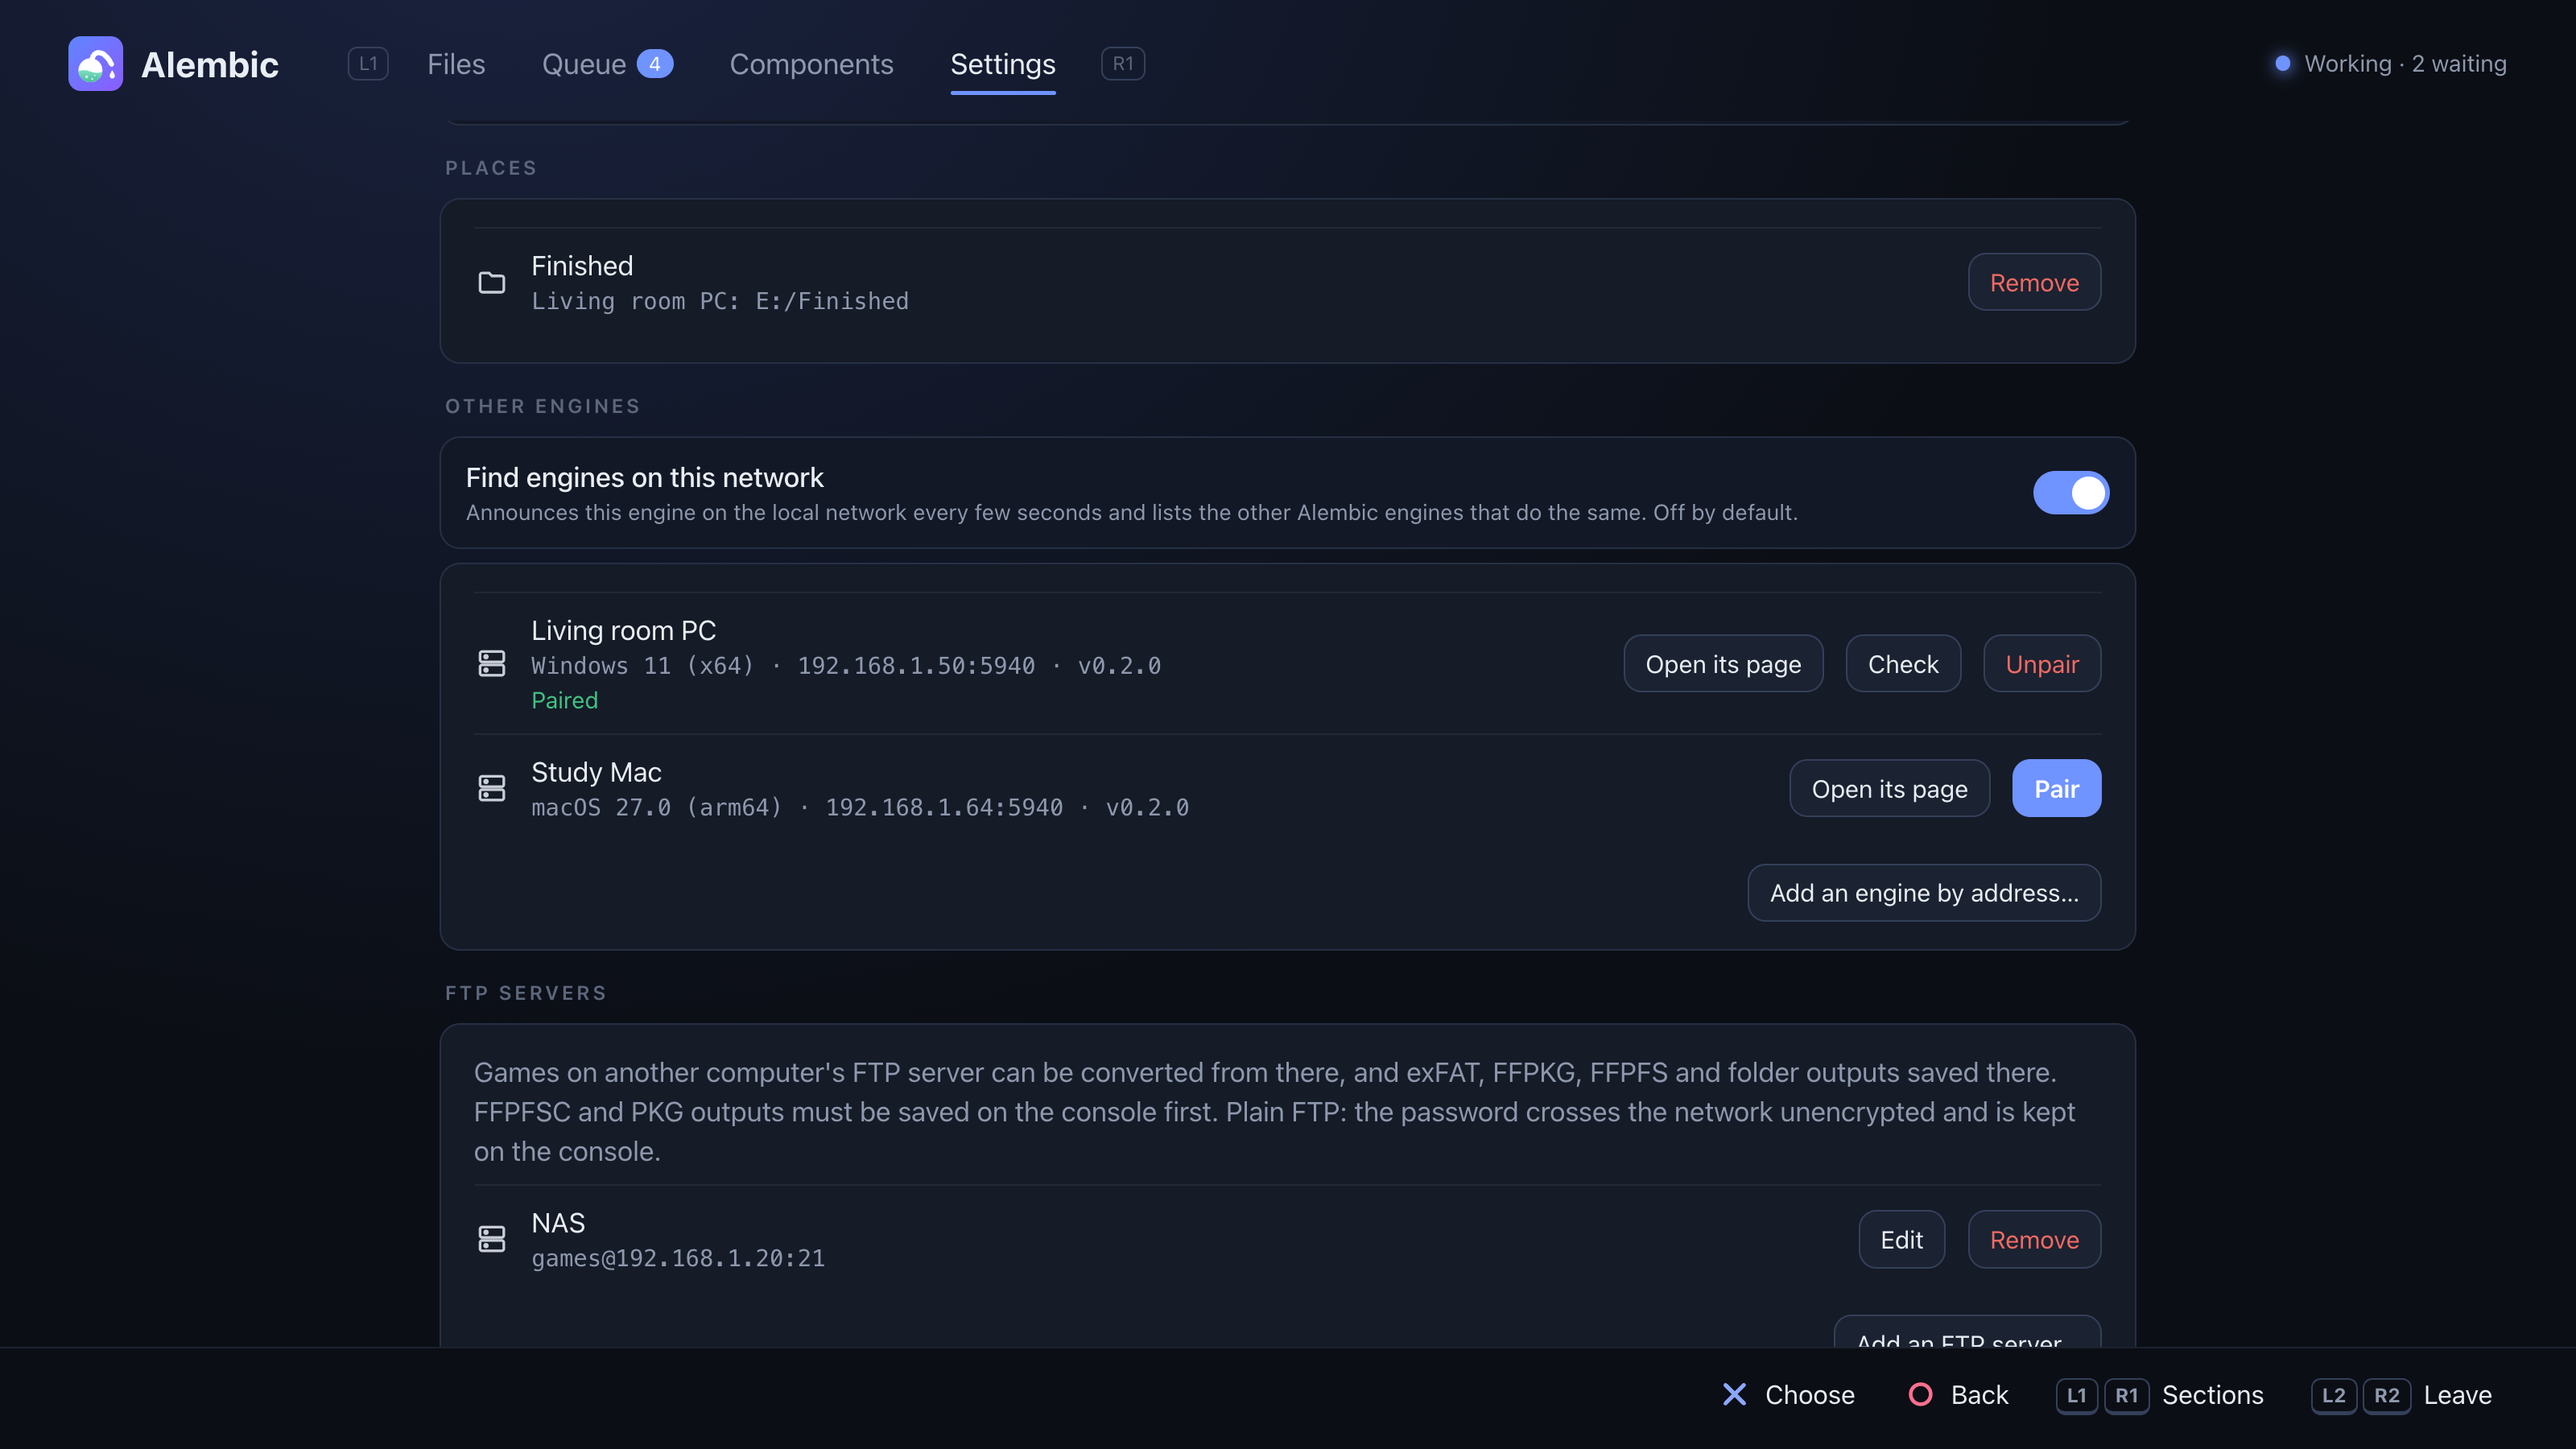
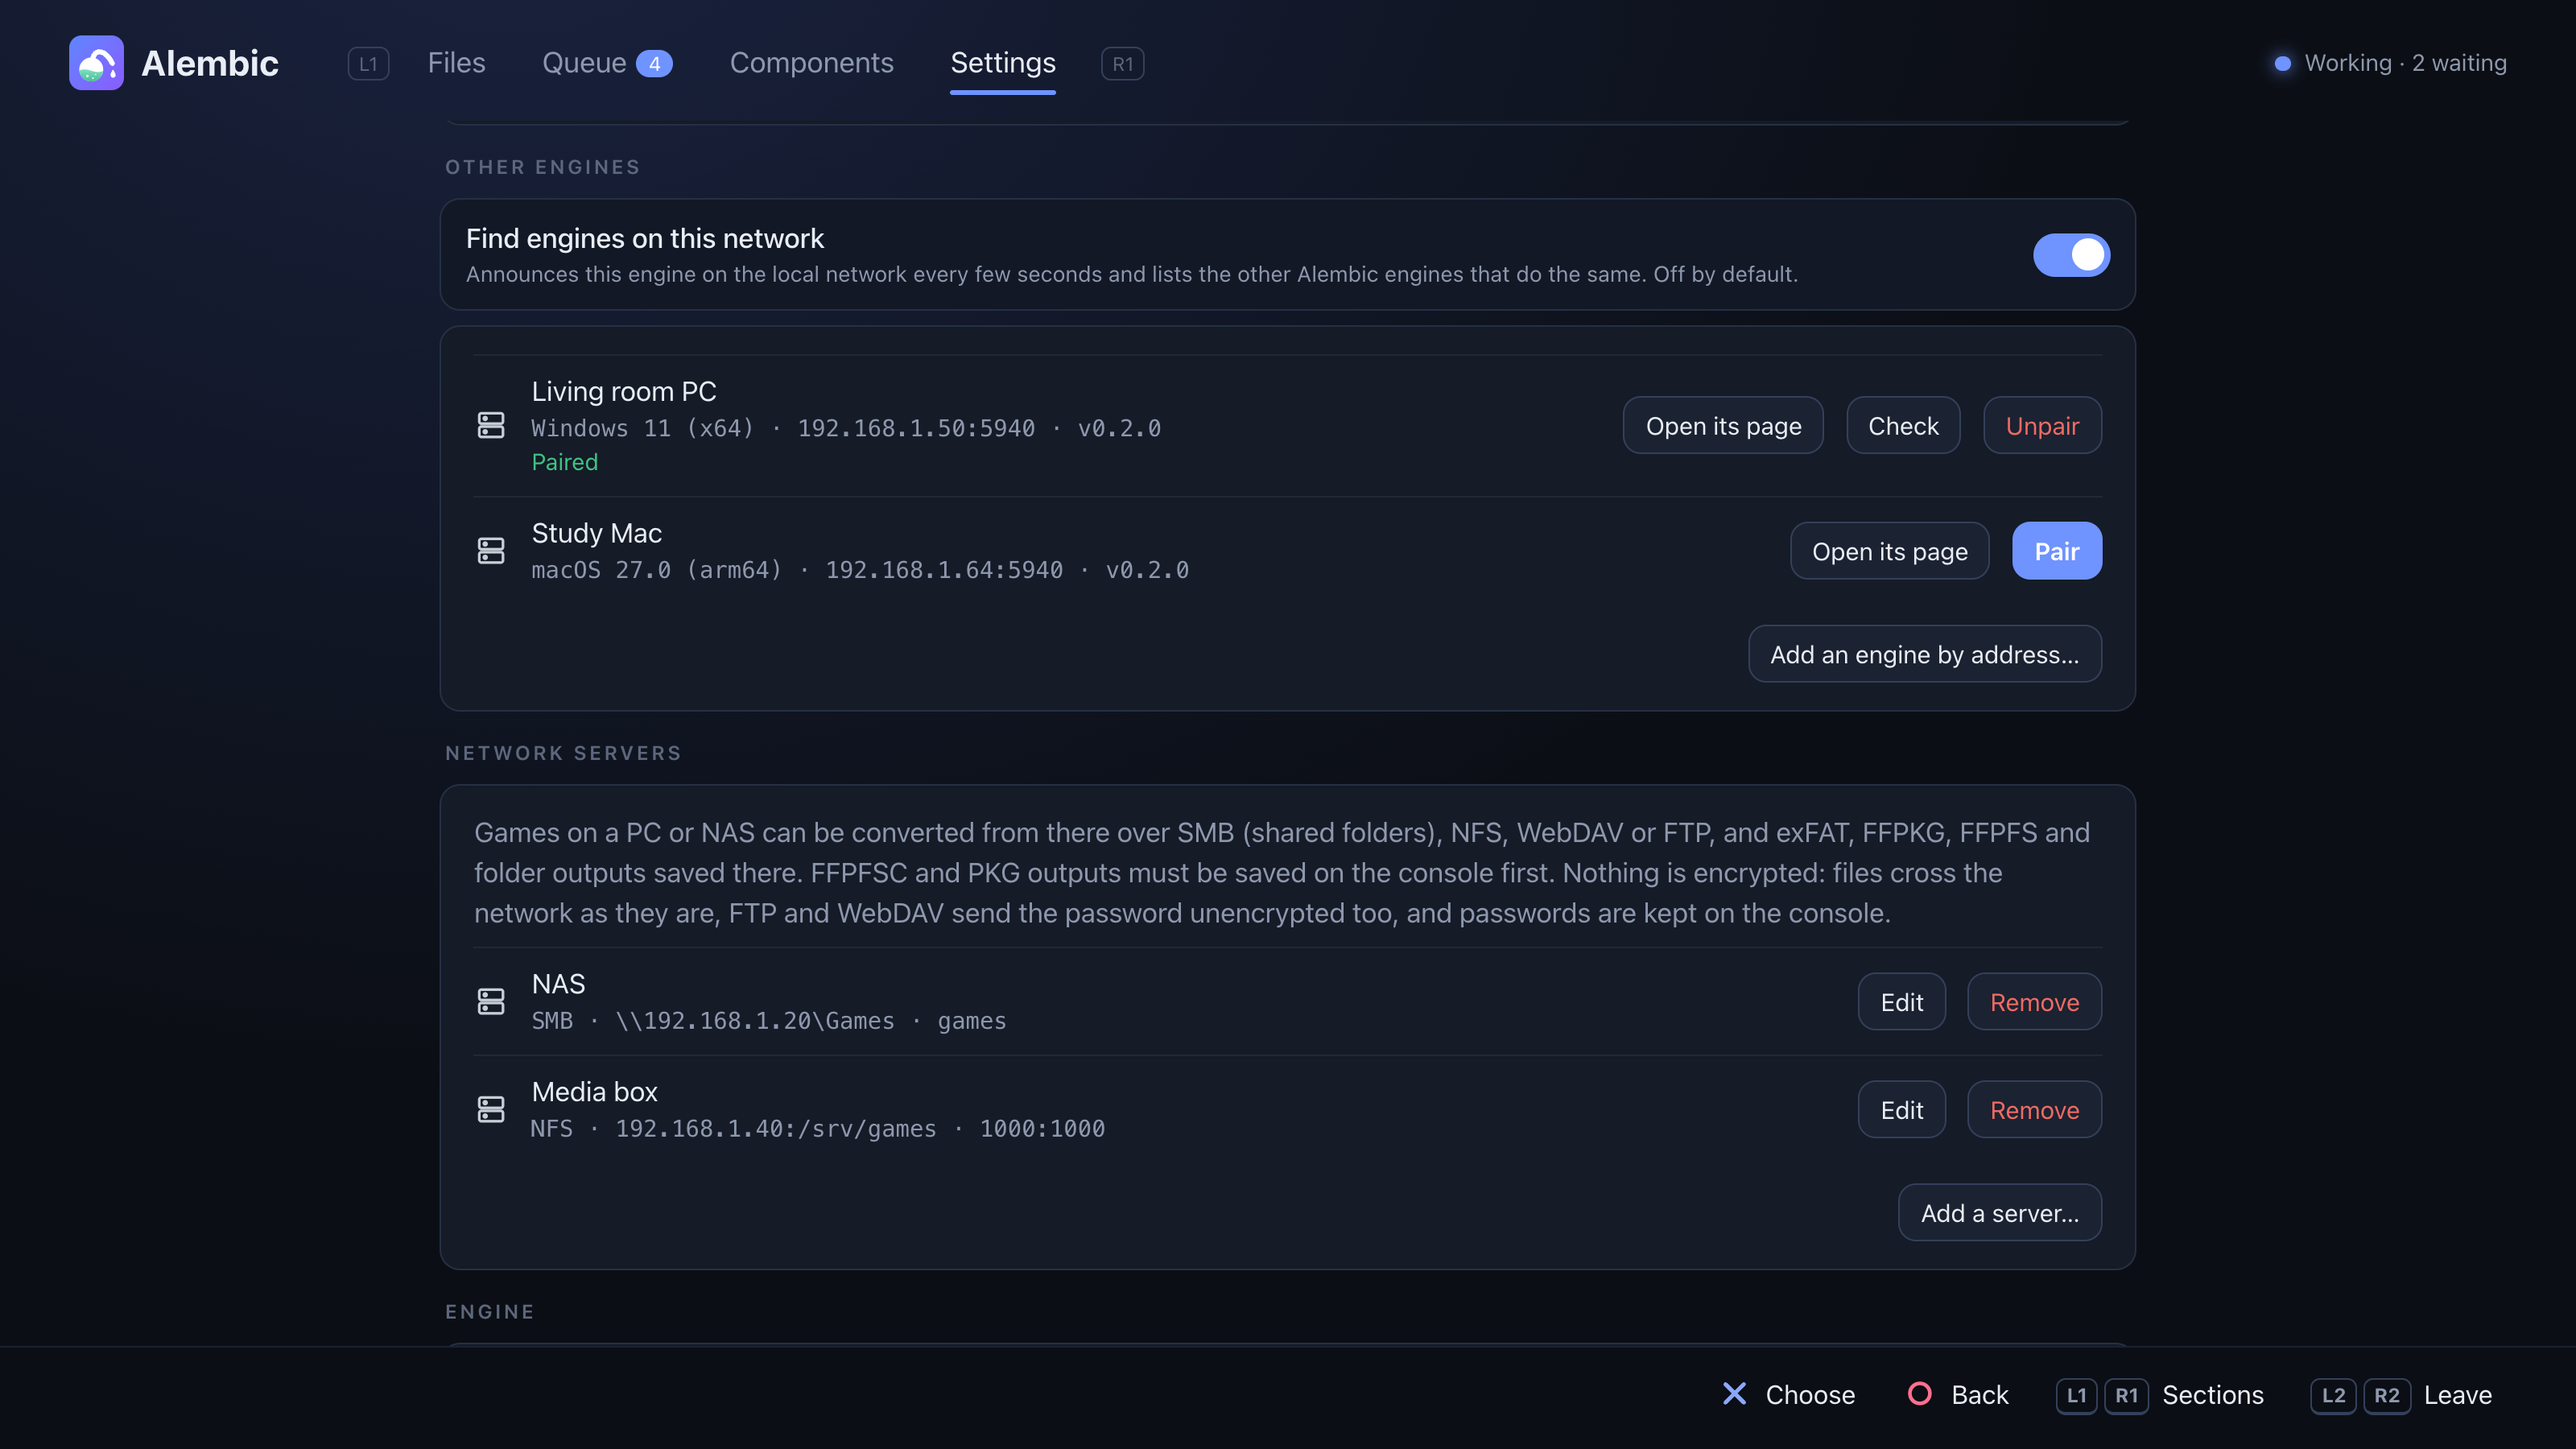
README and screenshots: network servers (SMB, NFS, WebDAV, FTP)
The stand-in engine has a NAS share over SMB and an NFS export; the
Settings screenshot starts at Other engines so both servers fit.

diff --git a/README.md b/README.md
@@ -1,6 +1,6 @@
 # Alembic
 
-![Alembic's page in the PS5 browser: a library of games in several formats, with drives, an FTP server and a paired PC on the left](docs/screenshots/files.png)
+![Alembic's page in the PS5 browser: a library of games in several formats, with drives, a NAS share, an NFS export and a paired PC on the left](docs/screenshots/files.png)
 
 Alembic converts PS5 and PS4 games between the formats homebrew loaders use:
 packages (PS5 debug FPKG, PS4 fake PKG), dump folders, exFAT images, FFPKG
@@ -9,7 +9,8 @@ screen (from 0.3.0) or as a payload with a web page, both driven with the
 controller, and on a PC (Windows, macOS, Linux) as a command-line tool or the
 same engine and page. Engines on your network can
 pair and work together: convert a package that sits on your PC, on the PC's
-processor, straight into the console's storage.
+processor, straight into the console's storage. Games on a PC or NAS can
+also be read from and saved to over SMB, NFS, WebDAV or FTP.
 
 > Work in progress. Back up anything you convert until you have checked the
 > result on your console.
@@ -21,11 +22,15 @@ once it is added; the console and a PC pair and convert for each other;
 conversion carries on after the engine is updated; the engine updates
 itself from a release (loaded through Payload Manager); the console app
 starts from ShadowMount+, starts and restarts the engine, and drives a
-conversion on a paired PC.
+conversion on a paired PC; a package converted from one of the new network
+servers.
 PS4 games converted from their packages start from images through
 ShadowMount+ 1.7beta8 (it shows "Trophy registration failed" for them: a
 ShadowMount+ issue, [#97](https://github.com/drakmor/ShadowMountPlus/issues/97)).
-**Not yet:** installing an FPKG that Alembic built, PS5 or PS4; PS4 updates
+**Not yet:** the other network server types from a console, and real NAS
+boxes and Windows shares (all four were checked on a PC against Samba,
+rclone, WsgiDAV and pyftpdlib); installing an FPKG that Alembic built, PS5
+or PS4; PS4 updates
 (patch packages) and DLC. LZ4 asset packs work for some games and not for
 others.
 
@@ -93,7 +98,7 @@ screen, or its web page in the console's browser (from a shortcut it adds to
 the Media tab) or in any browser on your network at `http://<console-ip>:5940`.
 The app and the page show the same things and work the same way.
 
-![The Alembic app on the PS5: a homebrew folder with games in several formats, drives, an FTP server and a paired PC on the left](docs/screenshots/app.png)
+![The Alembic app on the PS5: a homebrew folder with games in several formats, drives, a NAS share, an NFS export and a paired PC on the left](docs/screenshots/app.png)
 
 **The app** (`PPSA99594`, from 0.3.0), installed either way:
 
@@ -115,8 +120,9 @@ GitHub release first, checked against `SHA256SUMS`).
 
 1. Send `alembic-<version>.elf` (from the releases) to your console's ELF loader.
 2. Open Alembic from the Media tab (or the address above).
-3. In **Files**, pick a game on internal storage, USB, an FTP server or a
-   paired engine's drive (a pill tells PS5 and PS4 games apart), then
+3. In **Files**, pick a game on internal storage, USB, a network server (SMB,
+   NFS, WebDAV or FTP) or a paired engine's drive (a pill tells PS5 and PS4
+   games apart), then
    **Convert**, **Install** (packages), **Copy** or **Move**.
 4. Jobs run one at a time in **Queue**: pause, resume (long jobs continue
    from a checkpoint), reorder, cancel. You get a notification when one
@@ -124,7 +130,7 @@ GitHub release first, checked against `SHA256SUMS`).
 
 ![The Convert dialog: target formats, compression level, the AMPR emulator switch, and the output path on a paired PC](docs/screenshots/convert.png)
 
-![The queue: a running conversion with speed and time left, a paused one that continues from its checkpoint, a copy to FTP, and a job running on the paired PC](docs/screenshots/queue.png)
+![The queue: a running conversion with speed and time left, a paused one that continues from its checkpoint, a copy to a NAS share, and a job running on the paired PC](docs/screenshots/queue.png)
 
 Also on the page:
 
@@ -135,12 +141,23 @@ Also on the page:
   Enter, Esc, S, Q/E and Page Up/Down.
 - **Places:** add any folder to Places from its Options; they show in the
   rail, in Save to, and on paired engines.
-- **FTP servers** (Settings): games on a PC or NAS that runs an FTP server
-  can be converted without copying them to the console first. The server
-  only stores the files: the engine reads the game over the network and does
-  the converting itself. exFAT, FFPKG, FFPFS and folder outputs can be saved
-  back to the server. To have a PC do the work, run Alembic's engine on it
-  instead (see [Working across engines](#working-across-engines)).
+- **Network servers** (Settings, from 0.3.3): games on a PC or NAS can be
+  converted without copying them to the console first, over
+  - **SMB** (Windows shared folders, most NAS boxes): SMB 2 and 3 with
+    signing, as Windows 11 requires; a user and password, or a guest login.
+    Leave the share empty to see all of the server's shares.
+  - **NFS** (NAS and Linux exports): NFSv3, with the uid:gid to use
+    instead of a password. Leave the export empty to see all of them.
+  - **WebDAV** (NAS, Nextcloud, rclone): plain HTTP, Basic or Digest login.
+  - **FTP**: plain FTP.
+
+  The server only stores the files: the engine reads the game over the
+  network and does the converting itself. exFAT, FFPKG, FFPFS and folder
+  outputs can be saved back to the server; FFPFSC and PKG outputs go to the
+  console first. Nothing is encrypted yet (no SMB encryption, FTPS or
+  HTTPS): shares that require encryption are refused with a message. To
+  have a PC do the work, run Alembic's engine on it instead (see
+  [Working across engines](#working-across-engines)).
 - **From this computer:** opened in a PC's browser, the page can share a
   file from that PC for the console to convert.
 - **ShadowMount+:** new images can be picked up without a restart, and
@@ -168,6 +185,8 @@ Also on the page:
   so and offers **Update the app**.
 - **Other engines:** a paired engine that is switched off stays listed as
   offline instead of disappearing.
+- **Busy drives:** the app keeps the queue up to date while game titles
+  and icons load from a drive that a running job keeps busy.
 - Languages: English, Español, Français, Deutsch, 日本語, Türkçe.
 
 State (queue, settings, downloaded components) is kept in `/data/alembic`.
@@ -195,7 +214,7 @@ on any of them. When a job deletes its source after checking the output,
 engines compare SHA-256 digests instead of sending the files back. Files can also be sent between
 engines without converting (Options → Send to another engine).
 
-![Settings: Places, a paired PC and a Mac found on the network, and an FTP server](docs/screenshots/engines.png)
+![Settings: a paired PC and a Mac found on the network, and two network servers: a NAS share over SMB and an NFS export](docs/screenshots/engines.png)
 
 Engines of different Alembic versions work together as long as they talk to
 each other the same way; when that changes in a release, Settings shows which
@@ -350,6 +369,9 @@ Alembic stands on the work of the PS5 homebrew scene. Thank you to:
   and [itsPLK/ps5-payload-manager](https://github.com/itsPLK/ps5-payload-manager).
 - **blackbearreloaded** for [ps5-homebrew-ui](https://github.com/blackbearreloaded/ps5-homebrew-ui),
   the design the page follows.
+- Microsoft's [open specifications](https://learn.microsoft.com/openspecs/)
+  (SMB2/3, NTLM, SPNEGO, DCE/RPC and the share list) and the IETF RFCs for
+  NFSv3, ONC RPC and WebDAV, which the network clients are written from.
 - [zlib](https://zlib.net) and [LZ4](https://github.com/lz4/lz4), bundled
   with the engine, and [Preact](https://github.com/preactjs/preact) with its
   [signals](https://github.com/preactjs/signals), bundled into its page.
